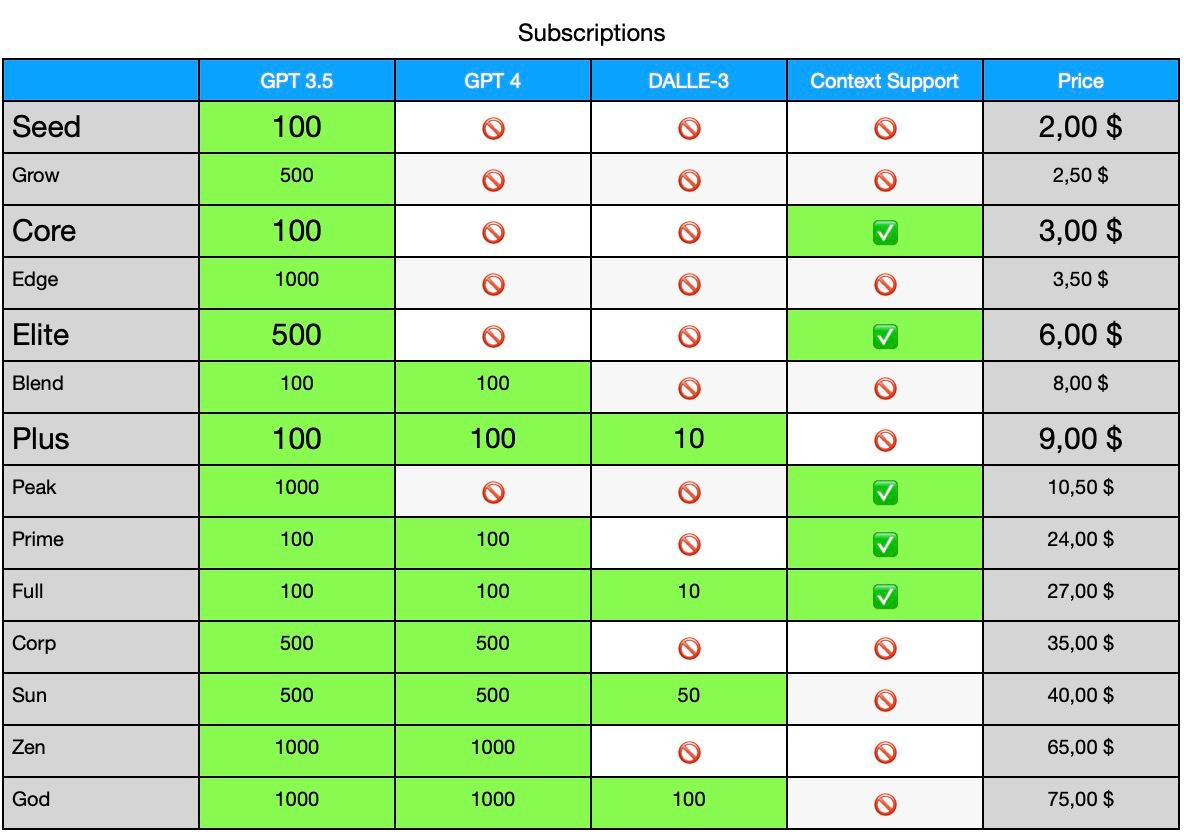
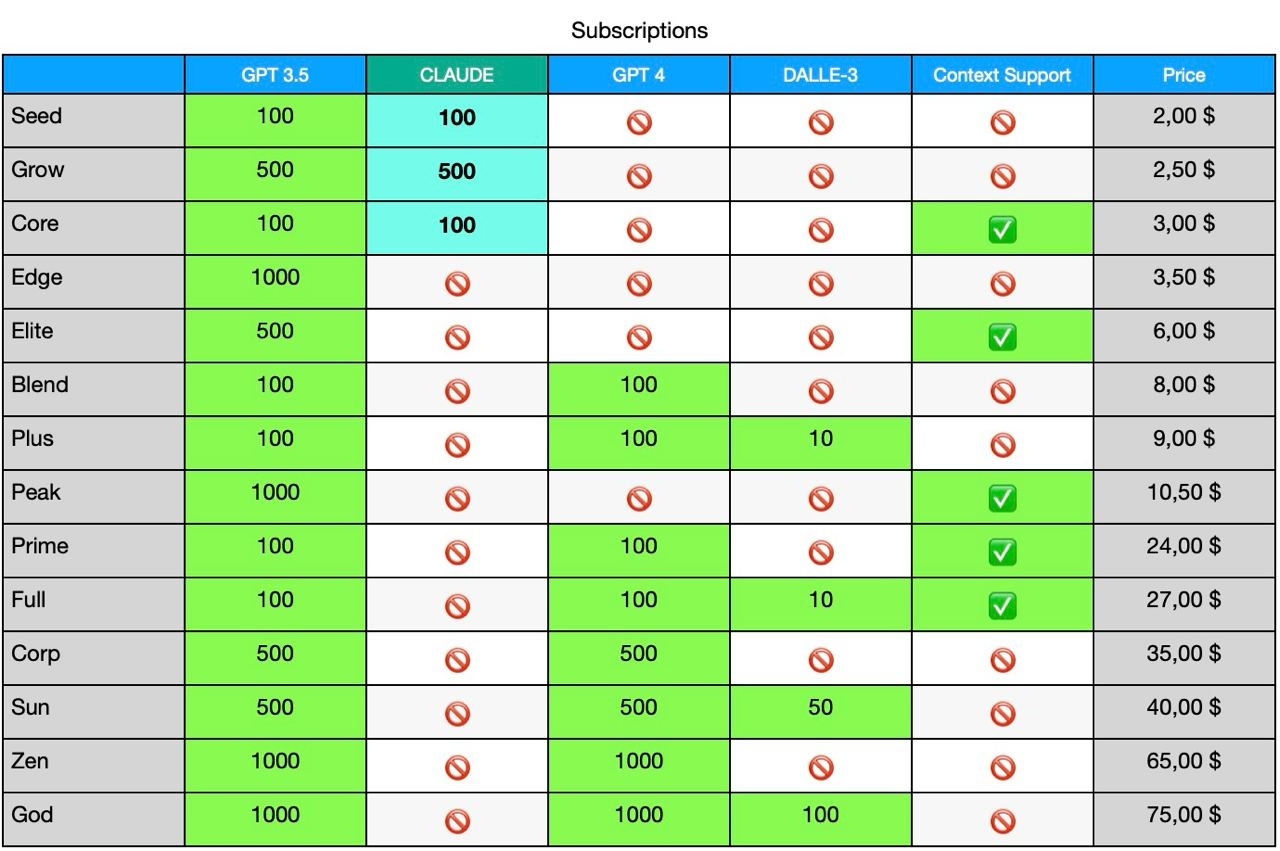
claude instant integration

diff --git a/pkg/utils/db.go b/pkg/utils/db.go
@@ -89,6 +89,40 @@ func AutoMigrateDB() error {
 	return err
 }
 
+func ClaudeUpdate() error {
+	var subscriptions []models.Subscription
+	err := dbConn.Find(&subscriptions).Error
+	if err != nil {
+		return err
+	}
+
+	for _, sub := range subscriptions {
+		usage := make(map[string]interface{})
+		if err := json.Unmarshal([]byte(sub.Usage), &usage); err != nil {
+			return err
+		}
+
+		if _, exists := usage["claude"]; !exists {
+			usage["claude"] = 0
+		}
+		if _, exists := usage["claude_context"]; !exists {
+			usage["claude_context"] = 0
+		}
+
+		updatedUsageJSON, err := json.Marshal(usage)
+		if err != nil {
+			return err
+		}
+
+		err = dbConn.Model(&models.Subscription{}).Where("id = ?", sub.Id).Update("usage", updatedUsageJSON).Error
+		if err != nil {
+			return err
+		}
+	}
+
+	return nil
+}
+
 func SeedPlans() error {
 	db, connErr := GetDatabaseConnection()
 	if connErr != nil {
@@ -103,20 +137,20 @@ func SeedPlans() error {
 	}
 
 	limits := []types.Limit{
-		{Gpt35Limit: 100, Gpt4Limit: 0, Dalle3Limit: 0, ContextSupport: false},
-		{Gpt35Limit: 500, Gpt4Limit: 0, Dalle3Limit: 0, ContextSupport: false},
-		{Gpt35Limit: 100, Gpt4Limit: 0, Dalle3Limit: 0, ContextSupport: true},
-		{Gpt35Limit: 1000, Gpt4Limit: 0, Dalle3Limit: 0, ContextSupport: false},
-		{Gpt35Limit: 500, Gpt4Limit: 0, Dalle3Limit: 0, ContextSupport: true},
-		{Gpt35Limit: 100, Gpt4Limit: 100, Dalle3Limit: 0, ContextSupport: false},
-		{Gpt35Limit: 100, Gpt4Limit: 100, Dalle3Limit: 10, ContextSupport: false},
-		{Gpt35Limit: 1000, Gpt4Limit: 0, Dalle3Limit: 0, ContextSupport: true},
-		{Gpt35Limit: 100, Gpt4Limit: 100, Dalle3Limit: 0, ContextSupport: true},
-		{Gpt35Limit: 100, Gpt4Limit: 100, Dalle3Limit: 10, ContextSupport: true},
-		{Gpt35Limit: 500, Gpt4Limit: 500, Dalle3Limit: 0, ContextSupport: false},
-		{Gpt35Limit: 500, Gpt4Limit: 500, Dalle3Limit: 50, ContextSupport: false},
-		{Gpt35Limit: 1000, Gpt4Limit: 1000, Dalle3Limit: 0, ContextSupport: false},
-		{Gpt35Limit: 1000, Gpt4Limit: 1000, Dalle3Limit: 100, ContextSupport: false},
+		{Gpt35Limit: 100, Gpt4Limit: 0, Dalle3Limit: 0, ClaudeLimit: 100, ContextSupport: false},
+		{Gpt35Limit: 500, Gpt4Limit: 0, Dalle3Limit: 0, ClaudeLimit: 500, ContextSupport: false},
+		{Gpt35Limit: 100, Gpt4Limit: 0, Dalle3Limit: 0, ClaudeLimit: 100, ContextSupport: true},
+		{Gpt35Limit: 1000, Gpt4Limit: 0, Dalle3Limit: 0, ClaudeLimit: 0, ContextSupport: false},
+		{Gpt35Limit: 500, Gpt4Limit: 0, Dalle3Limit: 0, ClaudeLimit: 0, ContextSupport: true},
+		{Gpt35Limit: 100, Gpt4Limit: 100, Dalle3Limit: 0, ClaudeLimit: 0, ContextSupport: false},
+		{Gpt35Limit: 100, Gpt4Limit: 100, Dalle3Limit: 10, ClaudeLimit: 0, ContextSupport: false},
+		{Gpt35Limit: 1000, Gpt4Limit: 0, Dalle3Limit: 0, ClaudeLimit: 0, ContextSupport: true},
+		{Gpt35Limit: 100, Gpt4Limit: 100, Dalle3Limit: 0, ClaudeLimit: 0, ContextSupport: true},
+		{Gpt35Limit: 100, Gpt4Limit: 100, Dalle3Limit: 10, ClaudeLimit: 0, ContextSupport: true},
+		{Gpt35Limit: 500, Gpt4Limit: 500, Dalle3Limit: 0, ClaudeLimit: 0, ContextSupport: false},
+		{Gpt35Limit: 500, Gpt4Limit: 500, Dalle3Limit: 50, ClaudeLimit: 0, ContextSupport: false},
+		{Gpt35Limit: 1000, Gpt4Limit: 1000, Dalle3Limit: 0, ClaudeLimit: 0, ContextSupport: false},
+		{Gpt35Limit: 1000, Gpt4Limit: 1000, Dalle3Limit: 100, ClaudeLimit: 0, ContextSupport: false},
 	}
 
 	configs := []types.Config{

diff --git a/Claude/claude.go b/Claude/claude.go
@@ -1,0 +1,94 @@
+package claude
+
+import (
+	"CallFrescoBot/pkg/consts"
+	"CallFrescoBot/pkg/models"
+	"CallFrescoBot/pkg/service/message"
+	usageService "CallFrescoBot/pkg/service/usage"
+	"CallFrescoBot/pkg/utils"
+	"context"
+	"errors"
+	"fmt"
+	tg "github.com/go-telegram-bot-api/telegram-bot-api/v5"
+	anthropic "github.com/liushuangls/go-anthropic/v2"
+	"log"
+)
+
+func handleResponse(update tg.Update, user *models.User, response anthropic.MessagesResponse) (tg.Chattable, error) {
+	err := messageService.CreateMessage(user.Id, update.Message.Text, *response.Content[0].Text, user.Mode)
+	if err != nil {
+		return nil, fmt.Errorf("error creating message: %w", err)
+	}
+
+	userMode := user.Mode
+
+	if user.Dialog == 1 {
+		userMode = userMode + 100
+	}
+
+	err = usageService.SaveUsage(user, userMode)
+	if err != nil {
+		return nil, fmt.Errorf("error saving usage: %w", err)
+	}
+
+	text := response.Content[0].Text
+
+	message := tg.NewMessage(update.Message.Chat.ID, *text)
+	message.ReplyToMessageID = update.Message.MessageID
+
+	return message, nil
+}
+
+func GetResponse(update tg.Update, user *models.User) (tg.Chattable, error) {
+	if utils.GetEnvVar("CLAUDE_API_KEY") == "" {
+		return nil, errors.New(consts.ErrorMissingClaudeKey)
+	}
+
+	client := anthropic.NewClient(utils.GetEnvVar("CLAUDE_API_KEY"))
+
+	sendMsgErr := messageService.SendMsgToUser(update.Message.Chat.ID, utils.LocalizeSafe(consts.ClaudeLoading))
+	if sendMsgErr != nil {
+		return nil, sendMsgErr
+	}
+
+	var messages []anthropic.Message
+
+	if user.Dialog == 1 {
+		userMessages, err := messageService.GetMessagesByUser(user, 15, user.Mode)
+		if err != nil {
+			log.Printf("error getting messages by user: %v", err)
+		}
+
+		for _, userMessage := range userMessages {
+			messages = append(messages, anthropic.NewUserTextMessage(userMessage.Message))
+			if userMessage.Response != "" {
+				messages = append(messages, anthropic.NewAssistantTextMessage(userMessage.Response))
+			}
+		}
+	}
+
+	messages = append(messages, anthropic.NewUserTextMessage(update.Message.Text))
+
+	resp, err := client.CreateMessages(context.Background(), anthropic.MessagesRequest{
+		Model:     anthropic.ModelClaudeInstant1Dot2,
+		Messages:  messages,
+		MaxTokens: 1000,
+	})
+
+	if err != nil {
+		var e *anthropic.APIError
+		if errors.As(err, &e) {
+			fmt.Printf("Messages error, type: %s, message: %s", e.Type, e.Message)
+		} else {
+			fmt.Printf("Messages error: %v\n", err)
+		}
+		return nil, err
+	}
+
+	msg, err := handleResponse(update, user, resp)
+	if err != nil {
+		return nil, err
+	}
+
+	return msg, nil
+}

diff --git a/pkg/service/numericKeyboard/numericKeyboardService.go b/pkg/service/numericKeyboard/numericKeyboardService.go
@@ -19,6 +19,7 @@ const (
 	ModeChatGPT35 = iota
 	ModeDallE
 	ModeChatGPT4
+	Claude
 )
 
 const (
@@ -105,11 +106,13 @@ func createMainKeyboard(user *models.User, extra string) *tg.InlineKeyboardMarku
 	chatGPTButton := createButtonWithMode("GPT3.5", extra, user.Mode, ModeChatGPT35)
 	dalleButton := createButtonWithMode("DallE3", extra, user.Mode, ModeDallE)
 	chatGPT4Button := createButtonWithMode("GPT4", extra, user.Mode, ModeChatGPT4)
+	claudeButton := createButtonWithMode("Claude", extra, user.Mode, Claude)
 	contextButton := createButtonWithContext(utils.LocalizeSafe(consts.ContextSupportButton), extra, user.Dialog)
 	languageButton := createButtonWithLanguage(utils.LocalizeSafe(consts.LanguageSelectButton), extra)
 
 	keyboard := tg.NewInlineKeyboardMarkup(
 		tg.NewInlineKeyboardRow(chatGPTButton, dalleButton, chatGPT4Button),
+		tg.NewInlineKeyboardRow(claudeButton),
 		tg.NewInlineKeyboardRow(contextButton),
 		tg.NewInlineKeyboardRow(languageButton),
 	)

diff --git a/pkg/repositories/subscription/subscriptionRepository.go b/pkg/repositories/subscription/subscriptionRepository.go
@@ -23,7 +23,7 @@ func GetUserSubscription(user *models.User, db *gorm.DB) (*models.Subscription, 
 }
 
 func CreateSubscription(user *models.User, limit int, multiplierDays int, db *gorm.DB) (*models.Subscription, error) {
-	usage := types.Usage{0, 0, 0, 0, 0, 0}
+	usage := types.Usage{0, 0, 0, 0, 0, 0, 0, 0}
 	usageJSON, err := json.Marshal(usage)
 	if err != nil {
 		return nil, err
@@ -48,7 +48,7 @@ func CreateSubscription(user *models.User, limit int, multiplierDays int, db *go
 }
 
 func CreateSubscriptionWithPlan(user *models.User, plan *models.Plan, multiplierDays int, db *gorm.DB) (*models.Subscription, error) {
-	usage := types.Usage{0, 0, 0, 0, 0, 0}
+	usage := types.Usage{0, 0, 0, 0, 0, 0, 0, 0}
 	usageJSON, err := json.Marshal(usage)
 	if err != nil {
 		return nil, err

diff --git a/pkg/commands/factory.go b/pkg/commands/factory.go
@@ -59,6 +59,10 @@ func NewGpt4Command(update tgbotapi.Update, user *models.User) ICommand {
 	return Gpt4Command{BaseCommand{Update: update, User: user}}
 }
 
+func NewClaudeCommand(update tgbotapi.Update, user *models.User) ICommand {
+	return ClaudeCommand{BaseCommand{Update: update, User: user}}
+}
+
 func GetCommand(update tgbotapi.Update, user *models.User) ICommand {
 	for _, entry := range commandRegistry {
 		if entry.Pattern.MatchString(update.Message.Text) {
@@ -85,6 +89,9 @@ func GetCommand(update tgbotapi.Update, user *models.User) ICommand {
 		}
 		if user.Mode == 2 {
 			return NewGpt4Command(update, user)
+		}
+		if user.Mode == 3 {
+			return NewClaudeCommand(update, user)
 		}
 		return NewGptCommand(update, user)
 	}

diff --git a/pkg/commands/claudeCommand.go b/pkg/commands/claudeCommand.go
@@ -1,0 +1,26 @@
+package commands
+
+import (
+	claude "CallFrescoBot/Claude"
+	"CallFrescoBot/pkg/consts"
+	"CallFrescoBot/pkg/utils"
+	tg "github.com/go-telegram-bot-api/telegram-bot-api/v5"
+)
+
+type ClaudeCommand struct {
+	BaseCommand
+}
+
+func (cmd ClaudeCommand) RunCommand() (tg.Chattable, error) {
+	result, err := cmd.Common(true)
+	if err != nil {
+		return tg.NewMessage(cmd.Update.Message.Chat.ID, result), err
+	}
+
+	claudeResponse, err := claude.GetResponse(cmd.Update, cmd.User)
+	if err != nil {
+		return tg.NewMessage(cmd.Update.Message.Chat.ID, utils.LocalizeSafe(consts.ErrorMsg)), err
+	}
+
+	return claudeResponse, nil
+}

diff --git a/pkg/commands/statusCommand.go b/pkg/commands/statusCommand.go
@@ -61,6 +61,9 @@ func (cmd StatusCommand) RunCommand() (tg.Chattable, error) {
 		if config.Limit.Dalle3Limit > 0 {
 			limitsInfo += fmt.Sprintf("*Dalle3* - %d / %d "+utils.LocalizeSafe(consts.Requests)+"\n", usage.Dalle3+usage.Dalle3Context, config.Limit.Dalle3Limit)
 		}
+		if config.Limit.ClaudeLimit > 0 {
+			limitsInfo += fmt.Sprintf("*Claude* - %d / %d "+utils.LocalizeSafe(consts.Requests)+"\n", usage.Claude+usage.ClaudeContext, config.Limit.ClaudeLimit)
+		}
 		contextSupport := utils.LocalizeSafe(consts.No)
 		if config.Limit.ContextSupport {
 			contextSupport = utils.LocalizeSafe(consts.Yes)

diff --git a/pkg/service/user/userService.go b/pkg/service/user/userService.go
@@ -106,6 +106,12 @@ func ValidateUser(user *models.User) (string, error) {
 			}
 			usageCount = usage.Gpt4 + usage.Gpt4Context
 			currentLimit = config.Limit.Gpt4Limit
+		case consts.UsageModeClaude:
+			if config.Limit.ClaudeLimit <= 0 {
+				return "Claude model is not available in your subscription", errors.New("Claude model is not available in your subscription")
+			}
+			usageCount = usage.Claude + usage.ClaudeContext
+			currentLimit = config.Limit.ClaudeLimit
 		default:
 			return "", fmt.Errorf("unknown usage mode: %w", err)
 		}

diff --git a/pkg/service/callback/callbackService.go b/pkg/service/callback/callbackService.go
@@ -229,6 +229,14 @@ func handleMode(data QueryData, user *models.User, bot *tgbotapi.BotAPI, query *
 				}
 				return errors.New("unavailable in your plan")
 			}
+		case consts.UsageModeClaude:
+			if config.Limit.ClaudeLimit <= 0 {
+				_, sendErr := bot.Send(tgbotapi.NewMessage(query.Message.Chat.ID, utils.LocalizeSafe(consts.UnavailableInYourPlan)))
+				if sendErr != nil {
+					return sendErr
+				}
+				return errors.New("unavailable in your plan")
+			}
 		default:
 			return fmt.Errorf("unknown usage mode: %w", err)
 		}

diff --git a/pkg/consts/systemMessages.go b/pkg/consts/systemMessages.go
@@ -34,6 +34,7 @@ const (
 	StatusCommandDescription  = "StatusCommandDescription"
 	SubscriptionSuccess       = "SubscriptionSuccess"
 	GptLoading                = "GptLoading"
+	ClaudeLoading             = "ClaudeLoading"
 	DalleLoading              = "DalleLoading"
 	UnavailableInYourPlan     = "UnavailableInYourPlan"
 	Requests                  = "Requests"

diff --git a/pkg/types/Usage.go b/pkg/types/Usage.go
@@ -4,7 +4,9 @@ type Usage struct {
 	Gpt35         int `json:"gpt35"`
 	Gpt4          int `json:"gpt4"`
 	Dalle3        int `json:"dalle3"`
+	Claude        int `json:"claude"`
 	Gpt35Context  int `json:"gpt35_context"`
 	Gpt4Context   int `json:"gpt4_context"`
 	Dalle3Context int `json:"dalle3_context"`
+	ClaudeContext int `json:"claude_context"`
 }

diff --git a/pkg/service/usage/usageService.go b/pkg/service/usage/usageService.go
@@ -34,6 +34,10 @@ func SaveUsage(user *models.User, modeId int64) error {
 		usage.Dalle3Context += 1
 	case consts.UsageModeGpt4Context:
 		usage.Gpt4Context += 1
+	case consts.UsageModeClaude:
+		usage.Claude += 1
+	case consts.UsageModeClaudeContext:
+		usage.ClaudeContext += 1
 	default:
 		return fmt.Errorf("unknown usage mode: %w", err)
 	}
